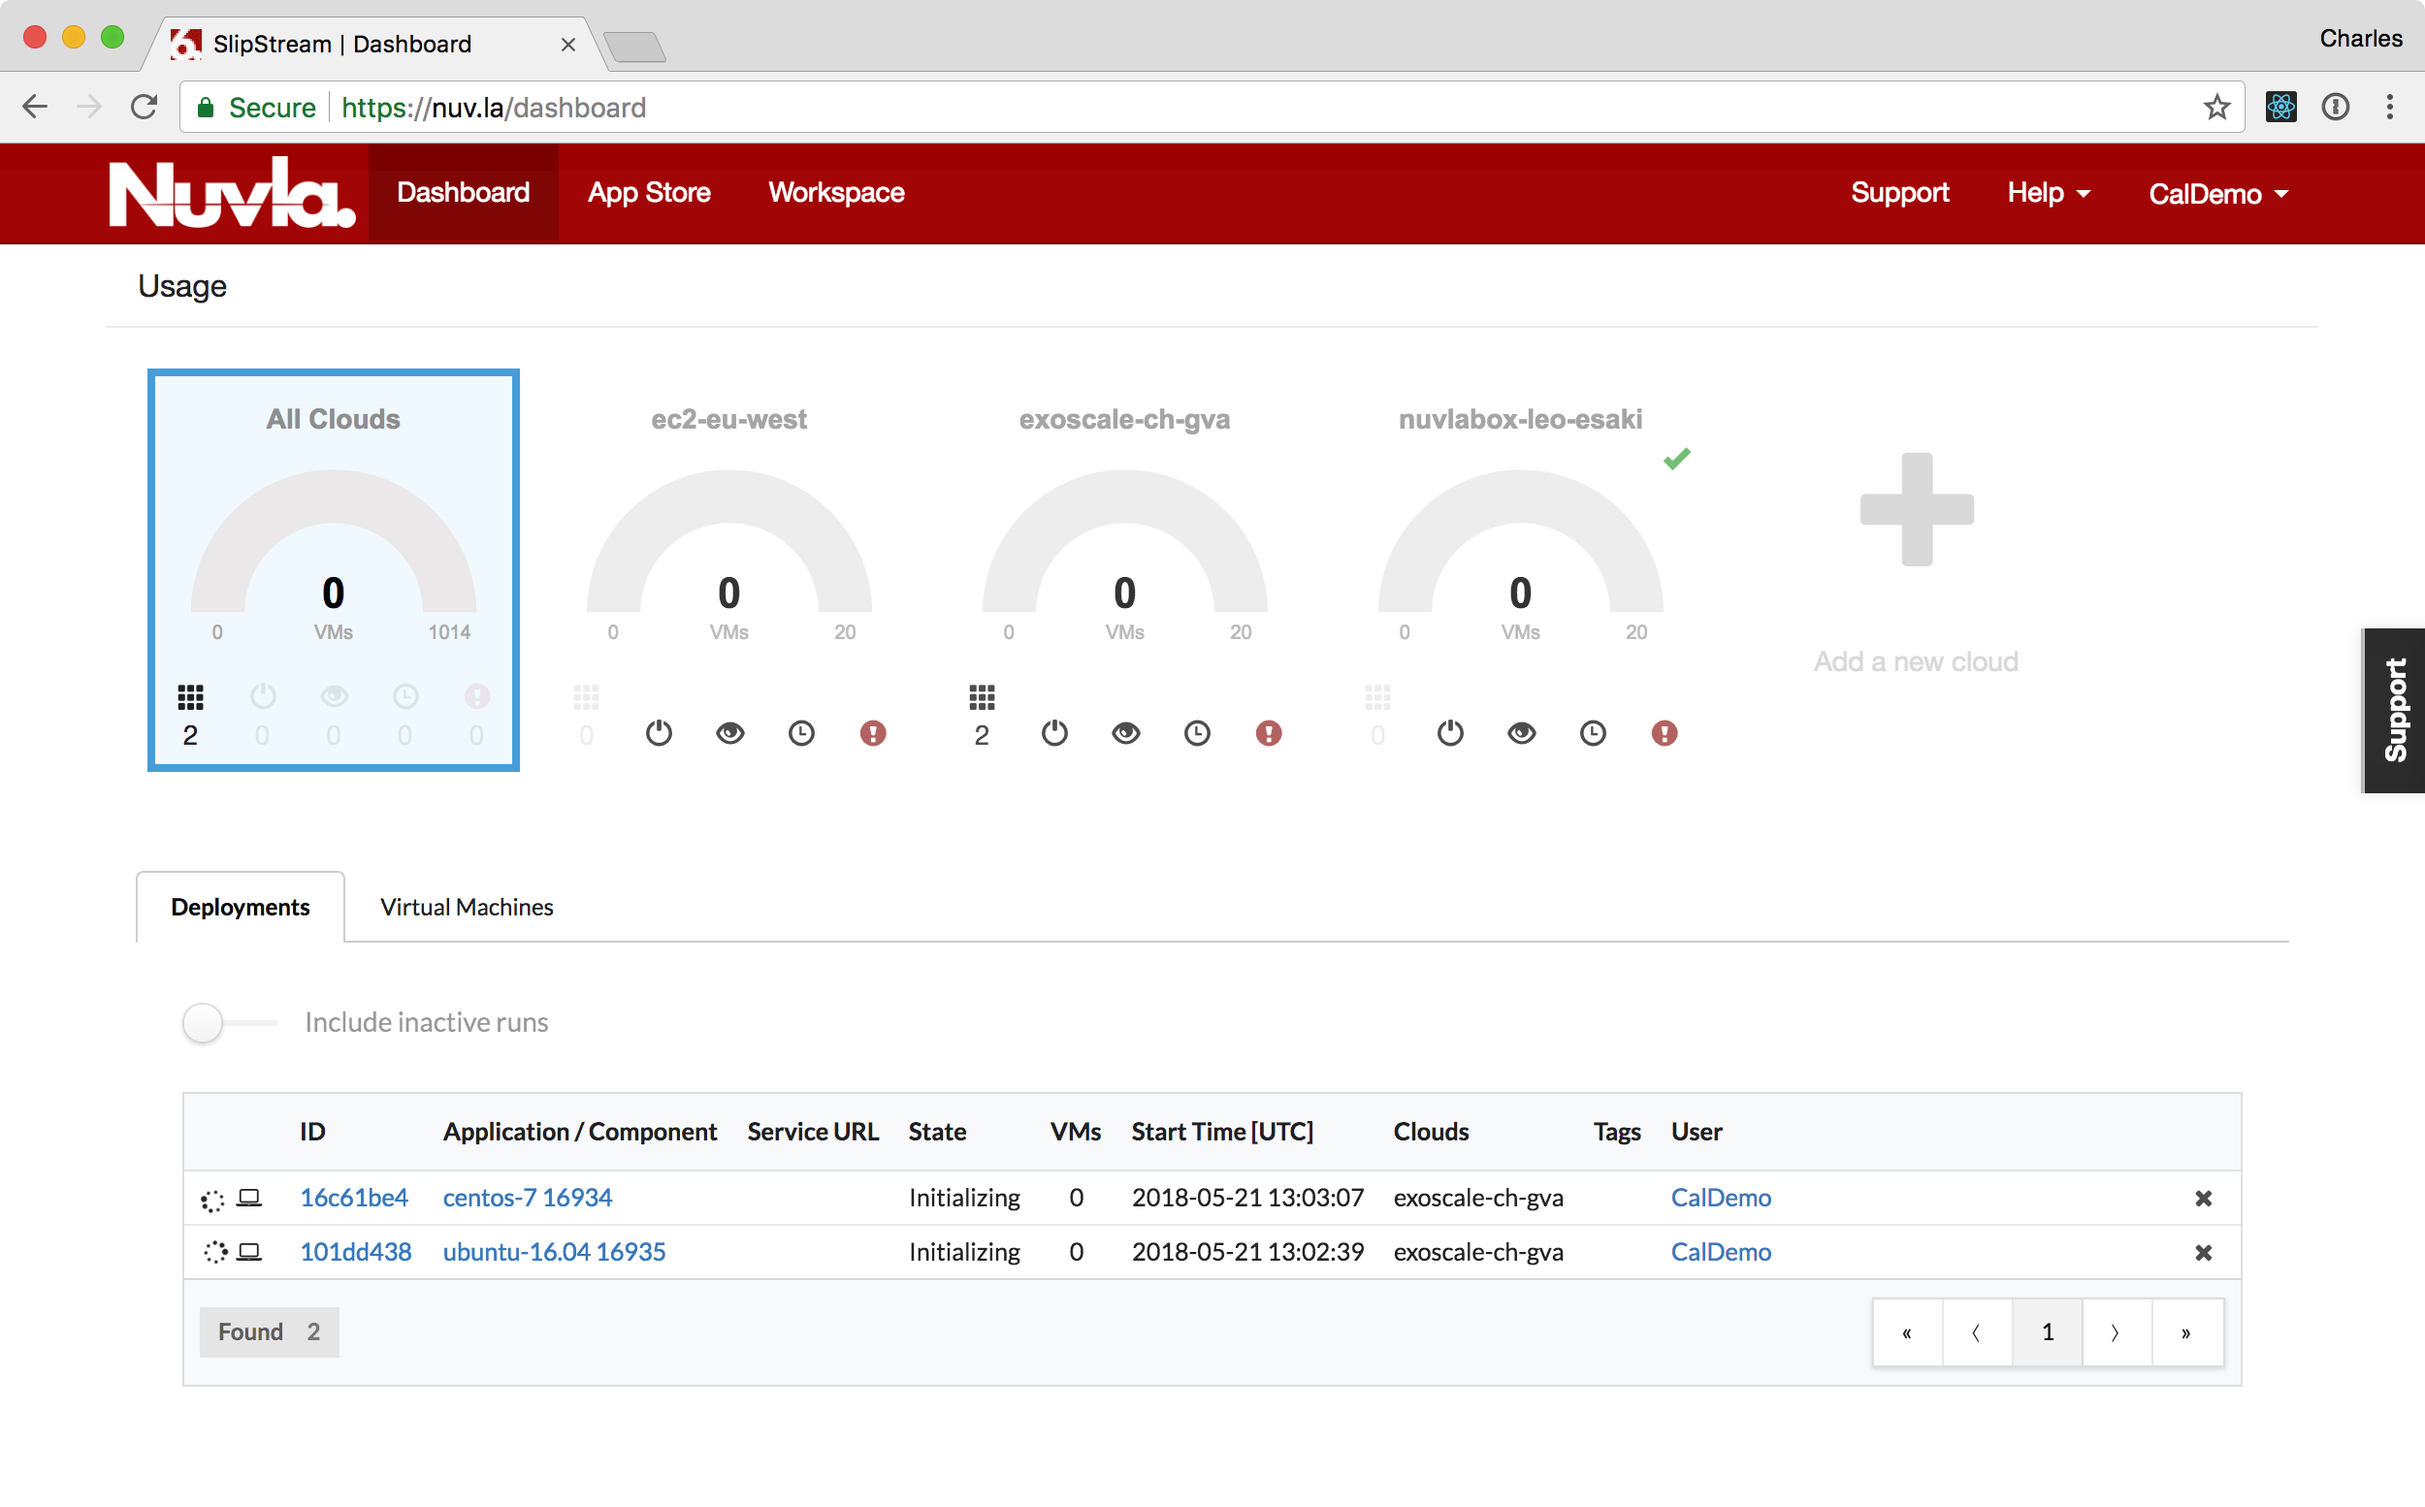
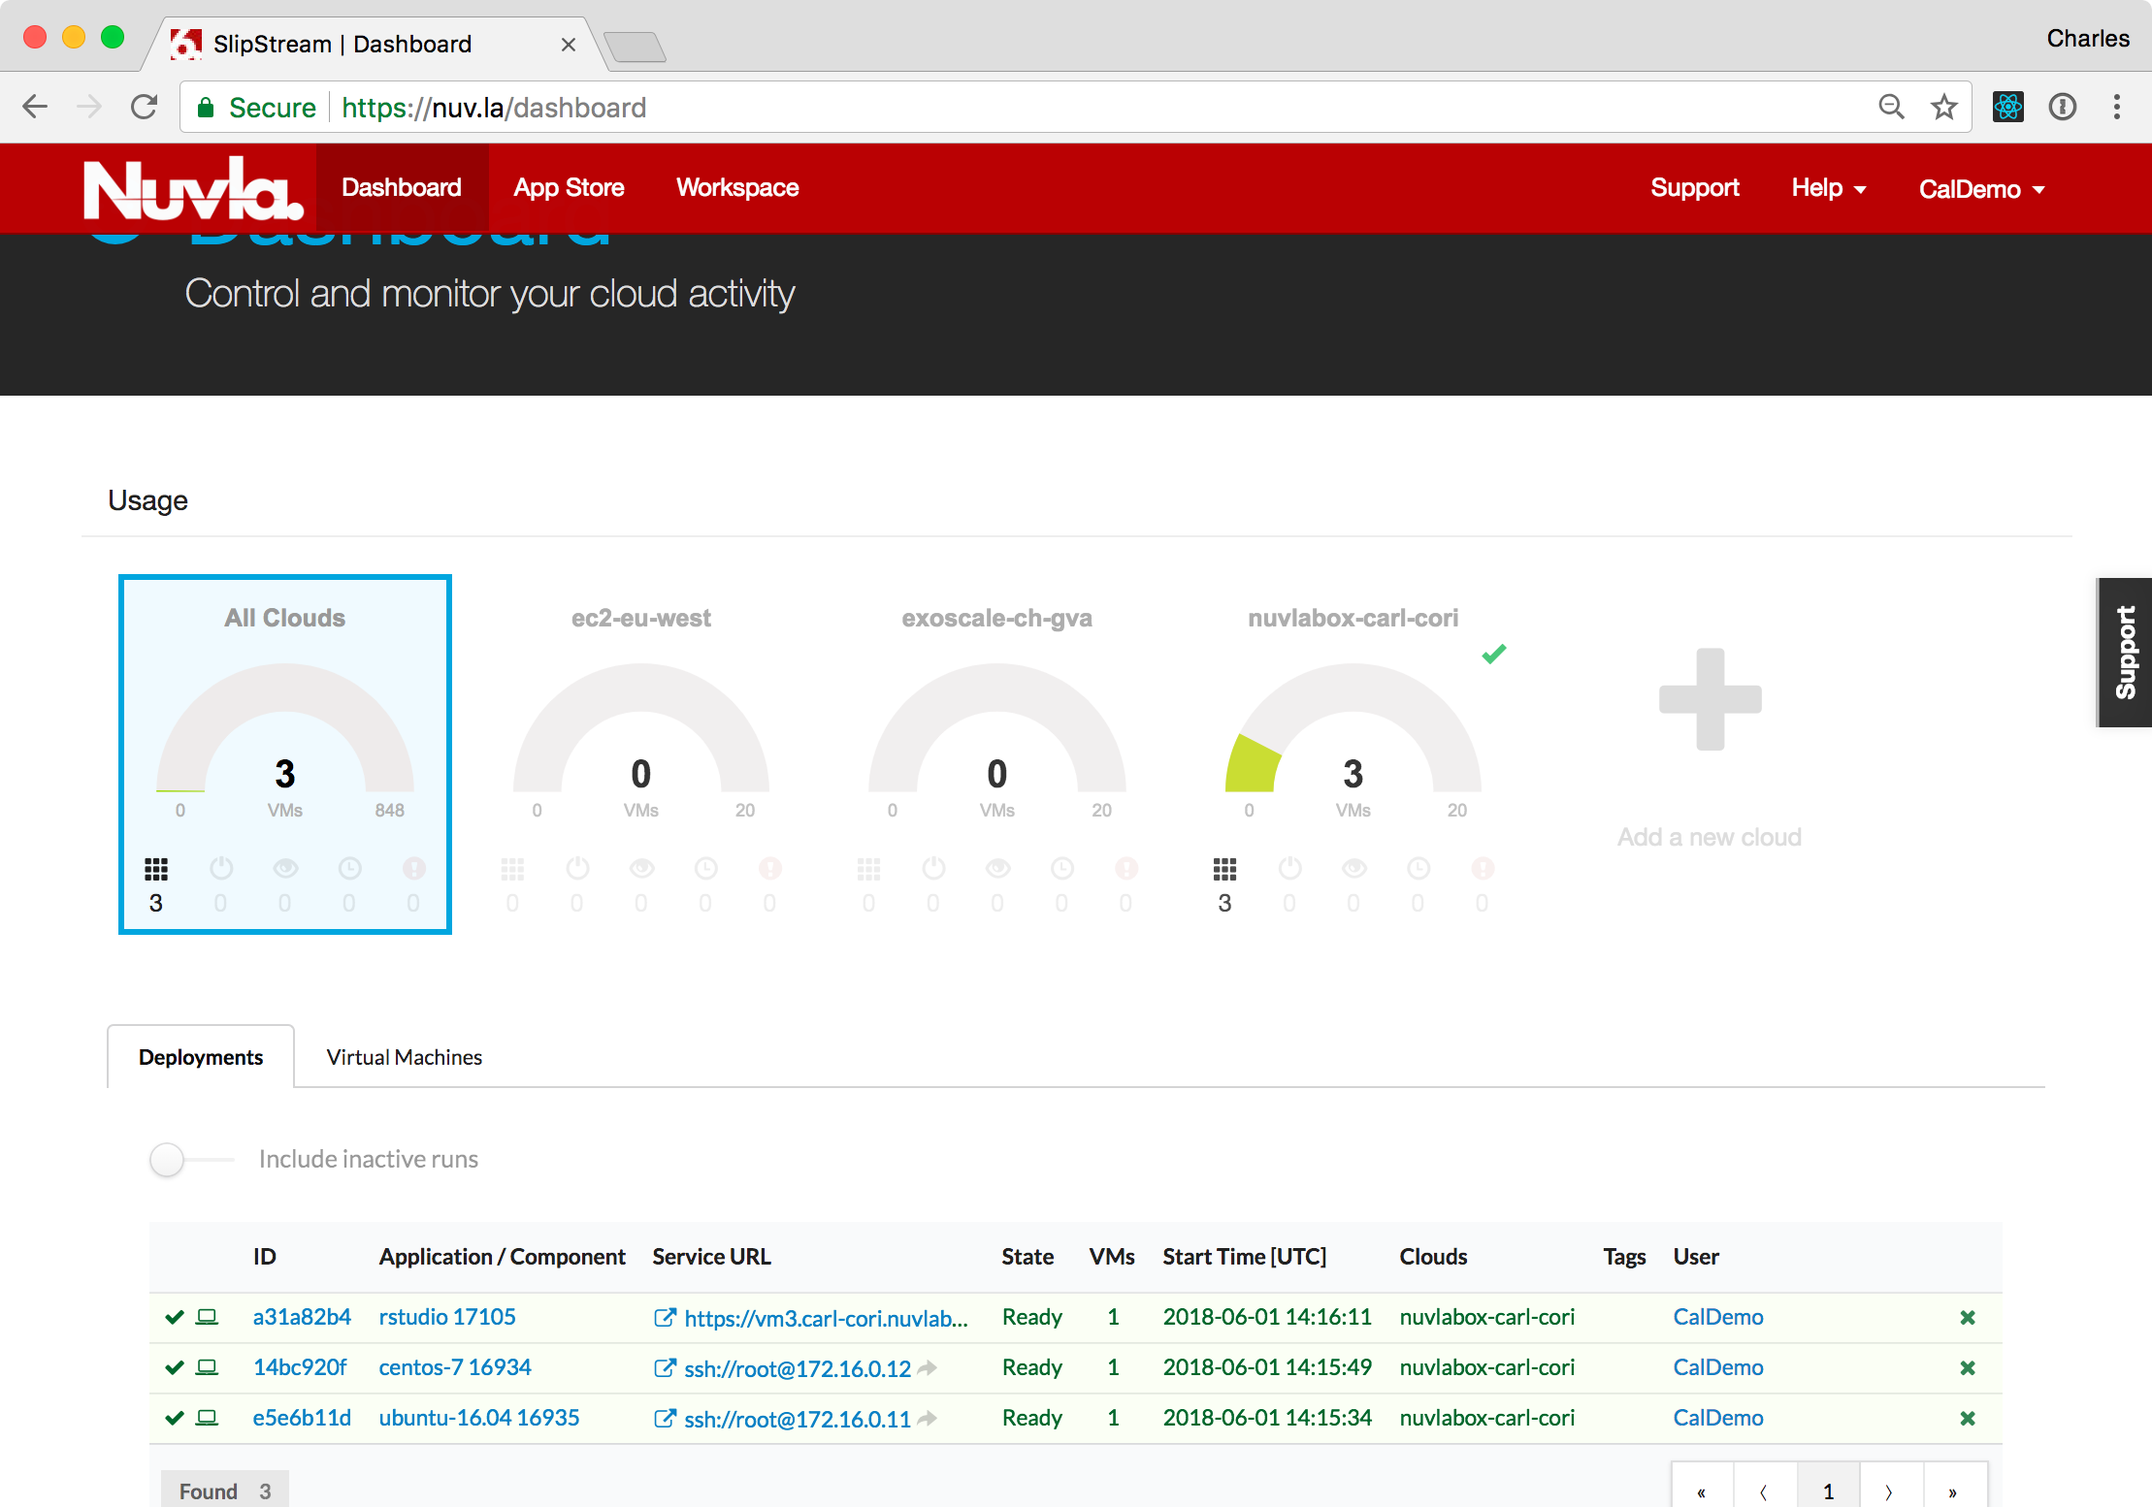
add final screenshots

diff --git a/docs/nuvlacity/nuvlabox.rst b/docs/nuvlacity/nuvlabox.rst
@@ -44,7 +44,7 @@ Inbound Connectivity
 ~~~~~~~~~~~~~~~~~~~~
 
 In many cases, inbound access to applications running on a NuvlaBox is
-required.  The NuvlaBox can be configured is several ways to provide
+required.  The NuvlaBox can be configured in several ways to provide
 this type of access.
 
  - By default, the NuvlaBox will provide direct access to applications
@@ -57,8 +57,9 @@ this type of access.
  - Nuvla and the NuvlaBox can be configured to **proxy ports to the
    nuvlabox.com domain**. This makes services running on those ports
    globally available to the Internet, although the number of
-   available ports is limited.  This solution relies on SSH tunneling
-   between Nuvla and the NuvlaBox.
+   available ports is limited.  This solution currently relies on SSH
+   tunneling between Nuvla and the NuvlaBox, but will use the VPN
+   (described below) in the future.
 
  - The NuvlaBox can be integrated with the organization's **corporate
    network**. This allows full access to services running on the
@@ -89,6 +90,9 @@ Installation
 The installation and configuration of the NuvlaBox hardware is
 accomplished by booting from an installation USB stick.
 
+USB Stick
+~~~~~~~~~
+
 First, find a USB stick to use for the installation:
 
  - Obtain a USB stick with at least 2 GB of space.  Using a USB 3
@@ -97,6 +101,9 @@ First, find a USB stick to use for the installation:
    data you want to save.
  - Attach the USB stick to the laptop (or other machine) that you will
    use to initialize the stick.
+
+Copy Installation Image
+~~~~~~~~~~~~~~~~~~~~~~~
 
 Second, download and copy the NuvlaBox installation image to your USB
 stick.
@@ -108,13 +115,13 @@ stick.
  - Determine the USB device for your stick.
  - Perform a raw copy of the image to your USB stick.
 
-On a Linux or Mac OS machine, the copy can be done with the command::
-
-  $ dd ...
-
-If you are on a Windows machine, there are a number of tools that can
+On a Linux or Mac OS machine, the copy can be done with the ``dd``
+command.  On a Windows machine, there are a number of tools that can
 be used to create a bootable USB stick from an image.  Use your
 favorite!
+
+Boot from USB
+~~~~~~~~~~~~~
 
 Third, boot the target machine from the USB stick:
 
@@ -127,8 +134,15 @@ Third, boot the target machine from the USB stick:
  - **Do not change the default boot device to the USB stick.**
  - Exit the BIOS and allow the machine to start from the USB stick.
 
-Fourth, select the installation method.  The normal choice is the
-default.
+Installation Type
+~~~~~~~~~~~~~~~~~
+
+Fourth, select the installation type.  The option you want is "USB
+Recovery" for a fresh installation.  This is the default.
+
+.. image:: images/screenshots/nuvlabox-boot-screen.jpg
+   :width: 60%
+   :align: center
 
 The machine will then boot several times; when the process is
 finished, remove the USB key.
@@ -174,9 +188,9 @@ machine has network access.  You can watch the progress from the
 machine's console and see the activation status on the Nuvla
 Dashboard.
 
-(As a reminder, if network access was available during the
-installation process, the machine will initiate the activation process
-without a reboot.)
+.. note:: As a reminder, if network access was available during the
+          installation process, the machine will initiate the
+          activation process without a reboot.
 
 The Nuvla dashboard indicates the status of a NuvlaBox machine with an
 icon in the upper-right corner of the tile:

diff --git a/docs/nuvlacity/cfg-mgt.rst b/docs/nuvlacity/cfg-mgt.rst
@@ -27,6 +27,11 @@ with the NuvlaCity platform.  The example builds on Ubuntu 16.04,
 installs git and ansible, and uses a short (40 line) shell script to
 integrate with NuvlaCity.
 
+.. image:: images/screenshots/ansible-component.png
+   :width: 60%
+   :align: center
+
+
 Ansible Repository
 ------------------
 
@@ -155,18 +160,8 @@ the web server. To do this:
  - For lighttpd, set "state" to "stopped",
  - Uncomment the nginx section.
 
-The resulting playbook should look like the following screenshot.
-
-.. image:: images/screenshots/ansible-updated-playbook.png
-   :width: 60%
-   :align: center
-
 Once this playbook is saved, Ansible should update the machine with
 the changes and the abort status should be cleared.
-
-.. image:: images/screenshots/ansible-nginx-success.png
-   :width: 60%
-   :align: center
 
 Visiting the same web server URL should now show the nginx welcome
 page instead of the lighttpd page that was seen before.

diff --git a/docs/nuvlacity/nuvla.rst b/docs/nuvlacity/nuvla.rst
@@ -12,7 +12,7 @@ in this demonstration).
 Account
 -------
 
-You will have been either asked to register for an account or given a
+You will have been either asked to register for an account or given an
 account already created by Nuvla administrators. To log into your
 account:
 
@@ -36,7 +36,7 @@ on the Dashboard menu item at the top to see your Dashboard.
 
 On the Dashboard, you will see NuvlaBox edge devices and clouds that
 you can access and an empty list of deployments.  The user in the
-screenshot has access to one NuvlaBox device (nuvlabox-leo-esaki), one
+screenshot has access to one NuvlaBox device (nuvlabox-carl-cori), one
 region in the Exoscale_ cloud, and one region in the AWS_ cloud.
 
 User Profile
@@ -76,7 +76,4 @@ NuvlaBox.
 .. _Exoscale: https://exoscale.ch
 
 .. _AWS: https://aws.amazon.com/
-
-
-
 

diff --git a/docs/nuvlacity/vm-mgt.rst b/docs/nuvlacity/vm-mgt.rst
@@ -137,8 +137,8 @@ screenshot.
    :width: 60%
    :align: center
 
-In the "Console" tab on the left you can type "demo(graphics)" to see
-a demonstration of the RStudio graphics capabilities.  Just keep
+In the "Console" tab on the left you can type ``demo(graphics)`` to
+see a demonstration of the RStudio graphics capabilities.  Just keep
 hitting return to advance through the demo.
 
 When you are finished, you can terminate the RStudio application with

diff --git a/docs/nuvlacity/index.rst b/docs/nuvlacity/index.rst
@@ -2,9 +2,8 @@
 NuvlaCity
 =========
 
-NuvlaCity provides an edge computing platform that transparently
-integrates a wide variety of cloud infrastructures and edge
-devices.
+NuvlaCity provides an **edge computing** platform that transparently
+integrates a wide variety of cloud infrastructures and edge devices.
 
  - **Nuvla**, a SlipStream service operated by SixSq, allows users to
    define, manage, and monitor their applications from a single point.

diff --git a/docs/nuvlacity/container-mgt.rst b/docs/nuvlacity/container-mgt.rst
@@ -46,10 +46,6 @@ Once the deployment reaches the "Ready" state, you can browse to port
 80 on the deployed machine to verify that the nginx welcome page
 appears.
 
-.. image:: images/screenshots/docker-run-ready.png
-   :width: 60%
-   :align: center
-
 .. image:: images/screenshots/docker-run-nginx-welcome.png
    :width: 60%
    :align: center
